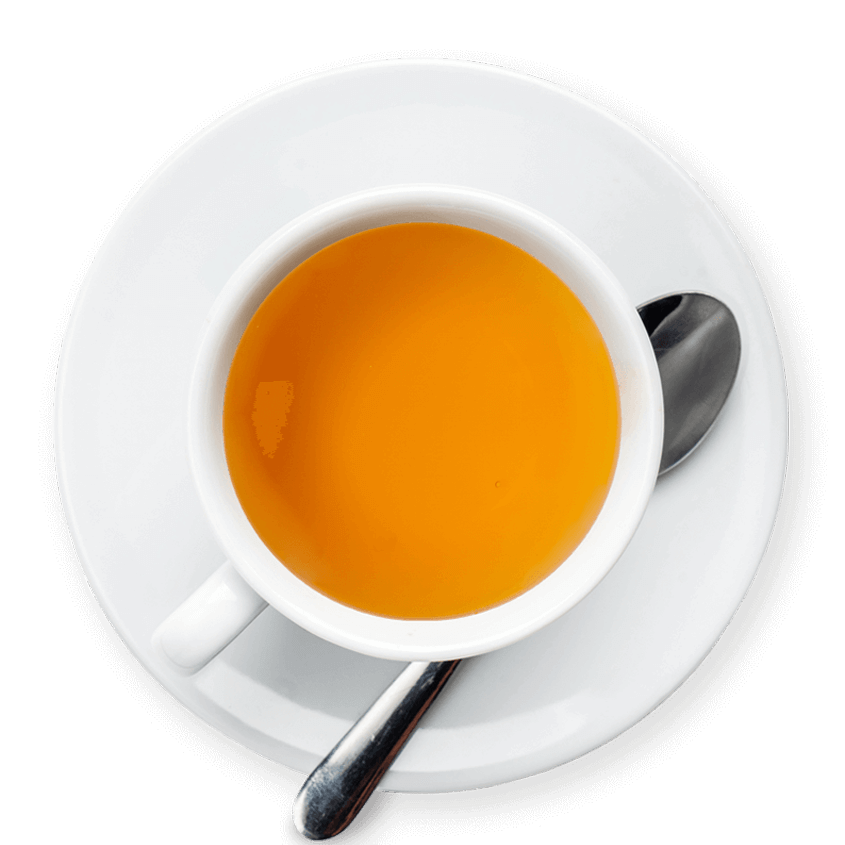
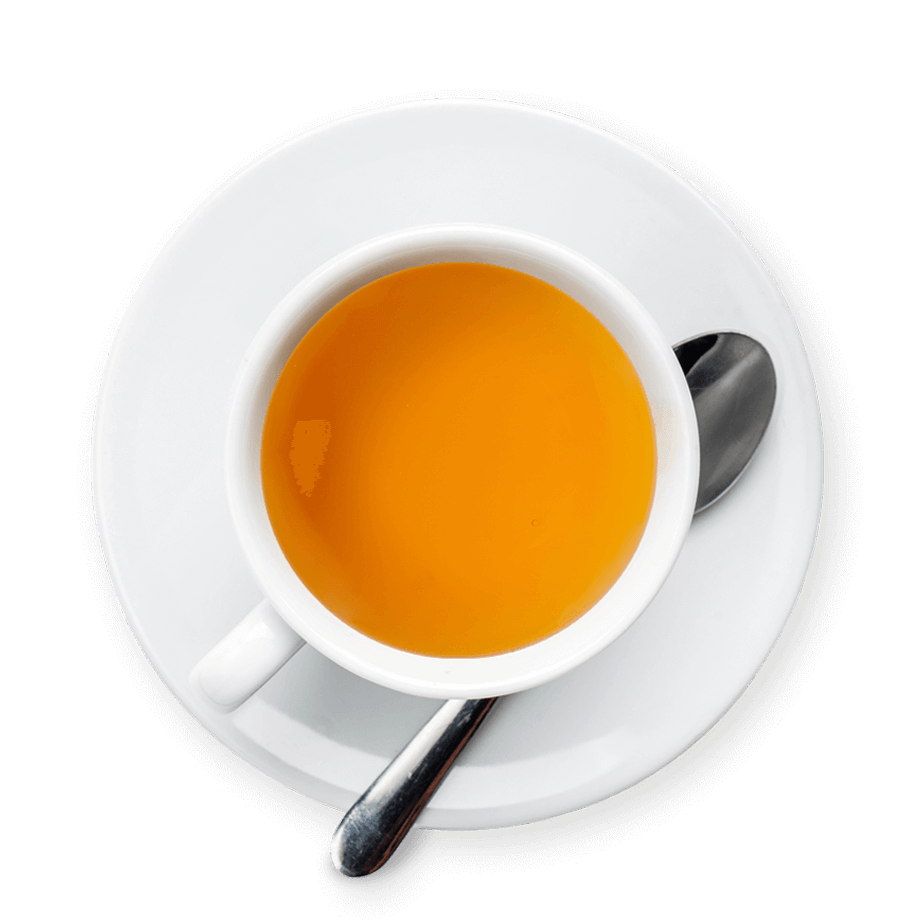
modified the sizes of te wheel for new image. no longer scroll x on brew maker panel

diff --git a/resources/views/tea-roulette/index.antlers.html b/resources/views/tea-roulette/index.antlers.html
@@ -16,7 +16,7 @@
     
             <div class="w-11/12 relative m-auto sm:w-9/12 lg:w-11/12 xl:w-6/12 ">
                 <img src="assets/tea-roulette/cut-out-teacup.png" alt="" class="relative -my-48 mx-auto">
-                <canvas id="canvas" class="the_Wheel absolute inset-0 m-auto w-6/12" width="400" height="400">
+                <canvas id="canvas" class="the_Wheel absolute inset-0 m-auto w-5/12" width="400" height="400">
                     <p class="font-bold text-red-800 text-center">Sorry, your browser doesn't support canvas. Please try another.</p>
                 </canvas>
             </div>
@@ -34,7 +34,7 @@
 
 
 <div class="addNamesPanel h-screen w-screen ml-0 transform -translate-y-full top-0 left-0 z-30 bg-dark fixed   md:w-handle-nm md:ml-handle">
-    <div class="w-11/12 m-auto pt-32 pb-12 overflow-scroll flex flex-row flex-wrap items-center justify-between md:w-1/2 relative">
+    <div class="w-11/12 m-auto pt-32 pb-12 overflow-y-scroll overflow-x-hidden flex flex-row flex-wrap items-center justify-between md:w-1/2 relative">
         {{ partial:partials/close classes="close_addNamesPanel text-5xl hover:text-white" }}
                 
         <div class="w-full flex items-center mb-10">
